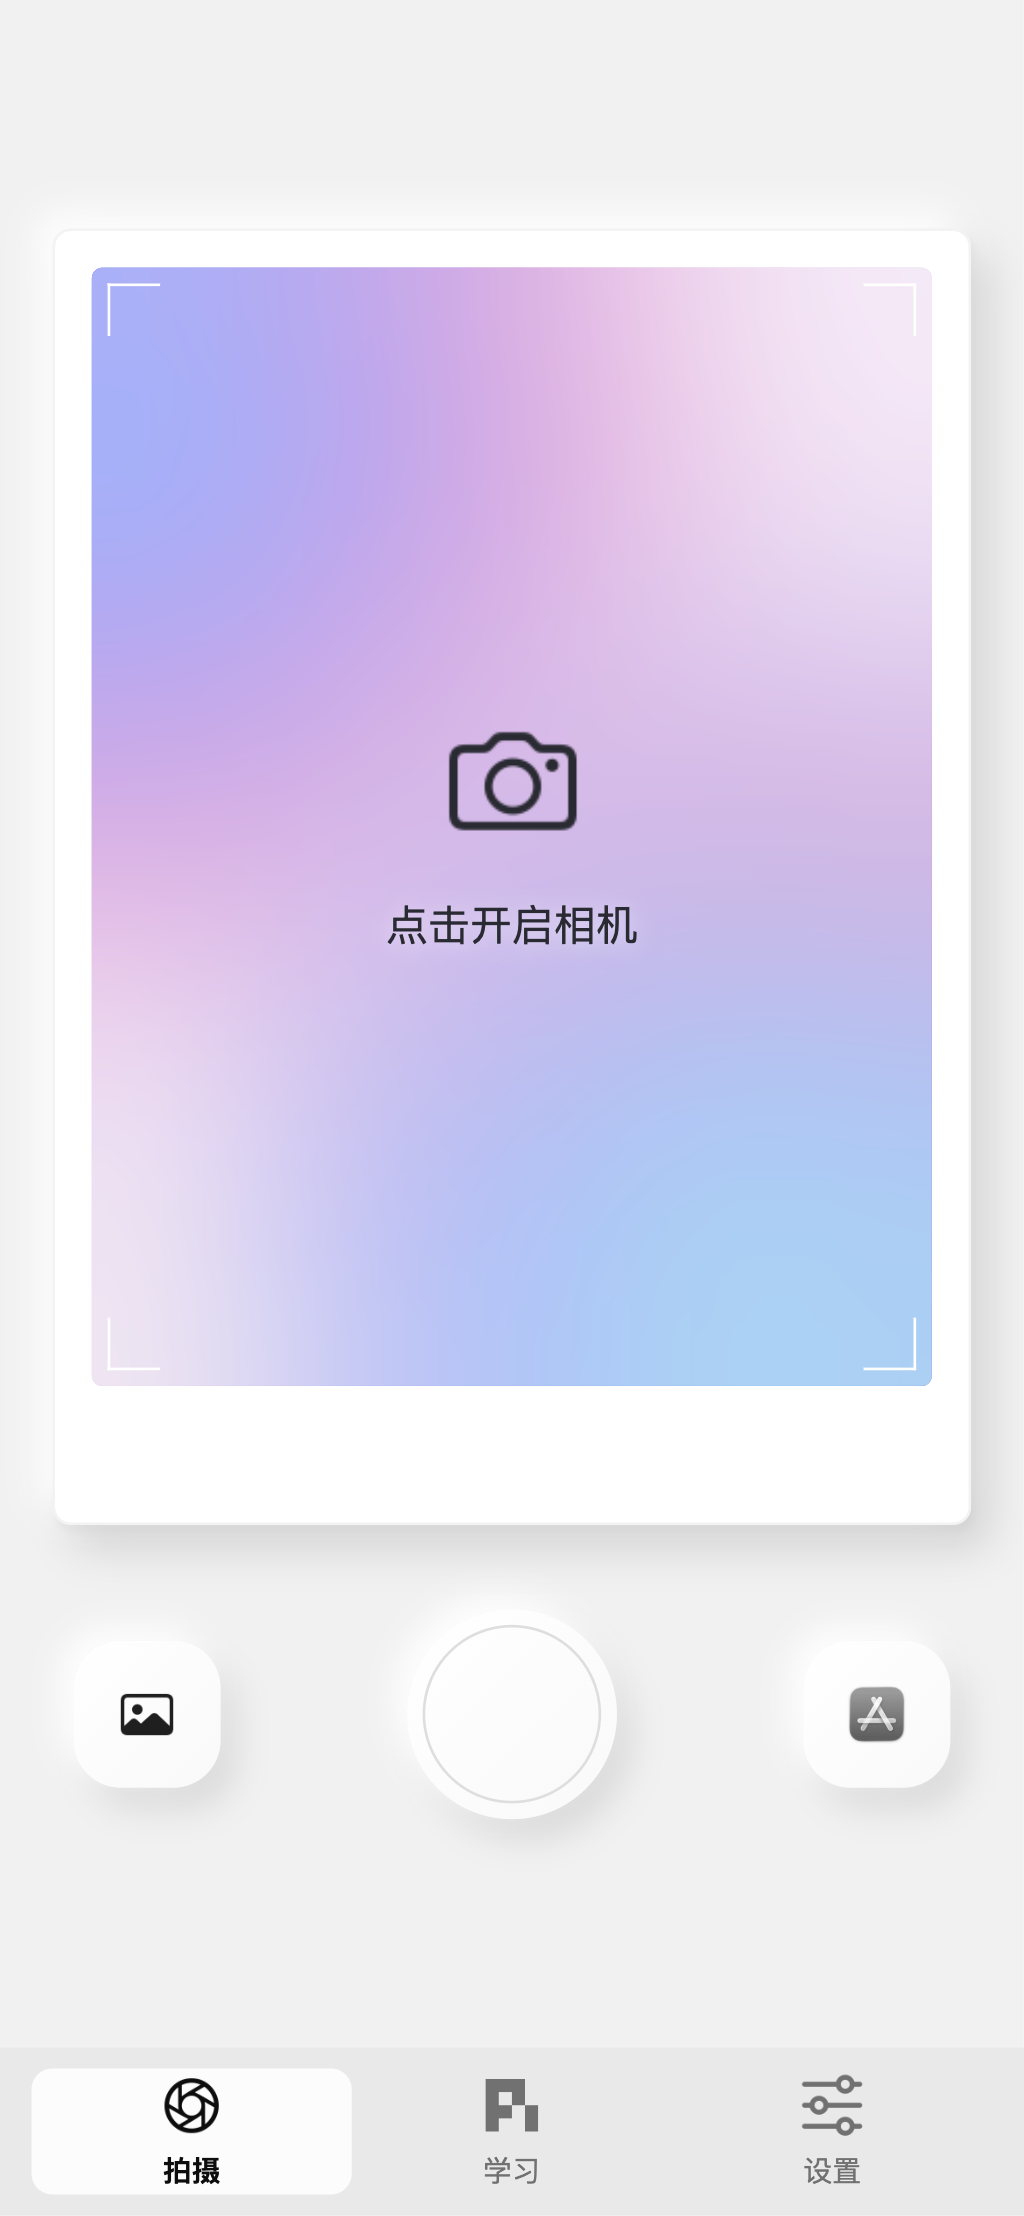
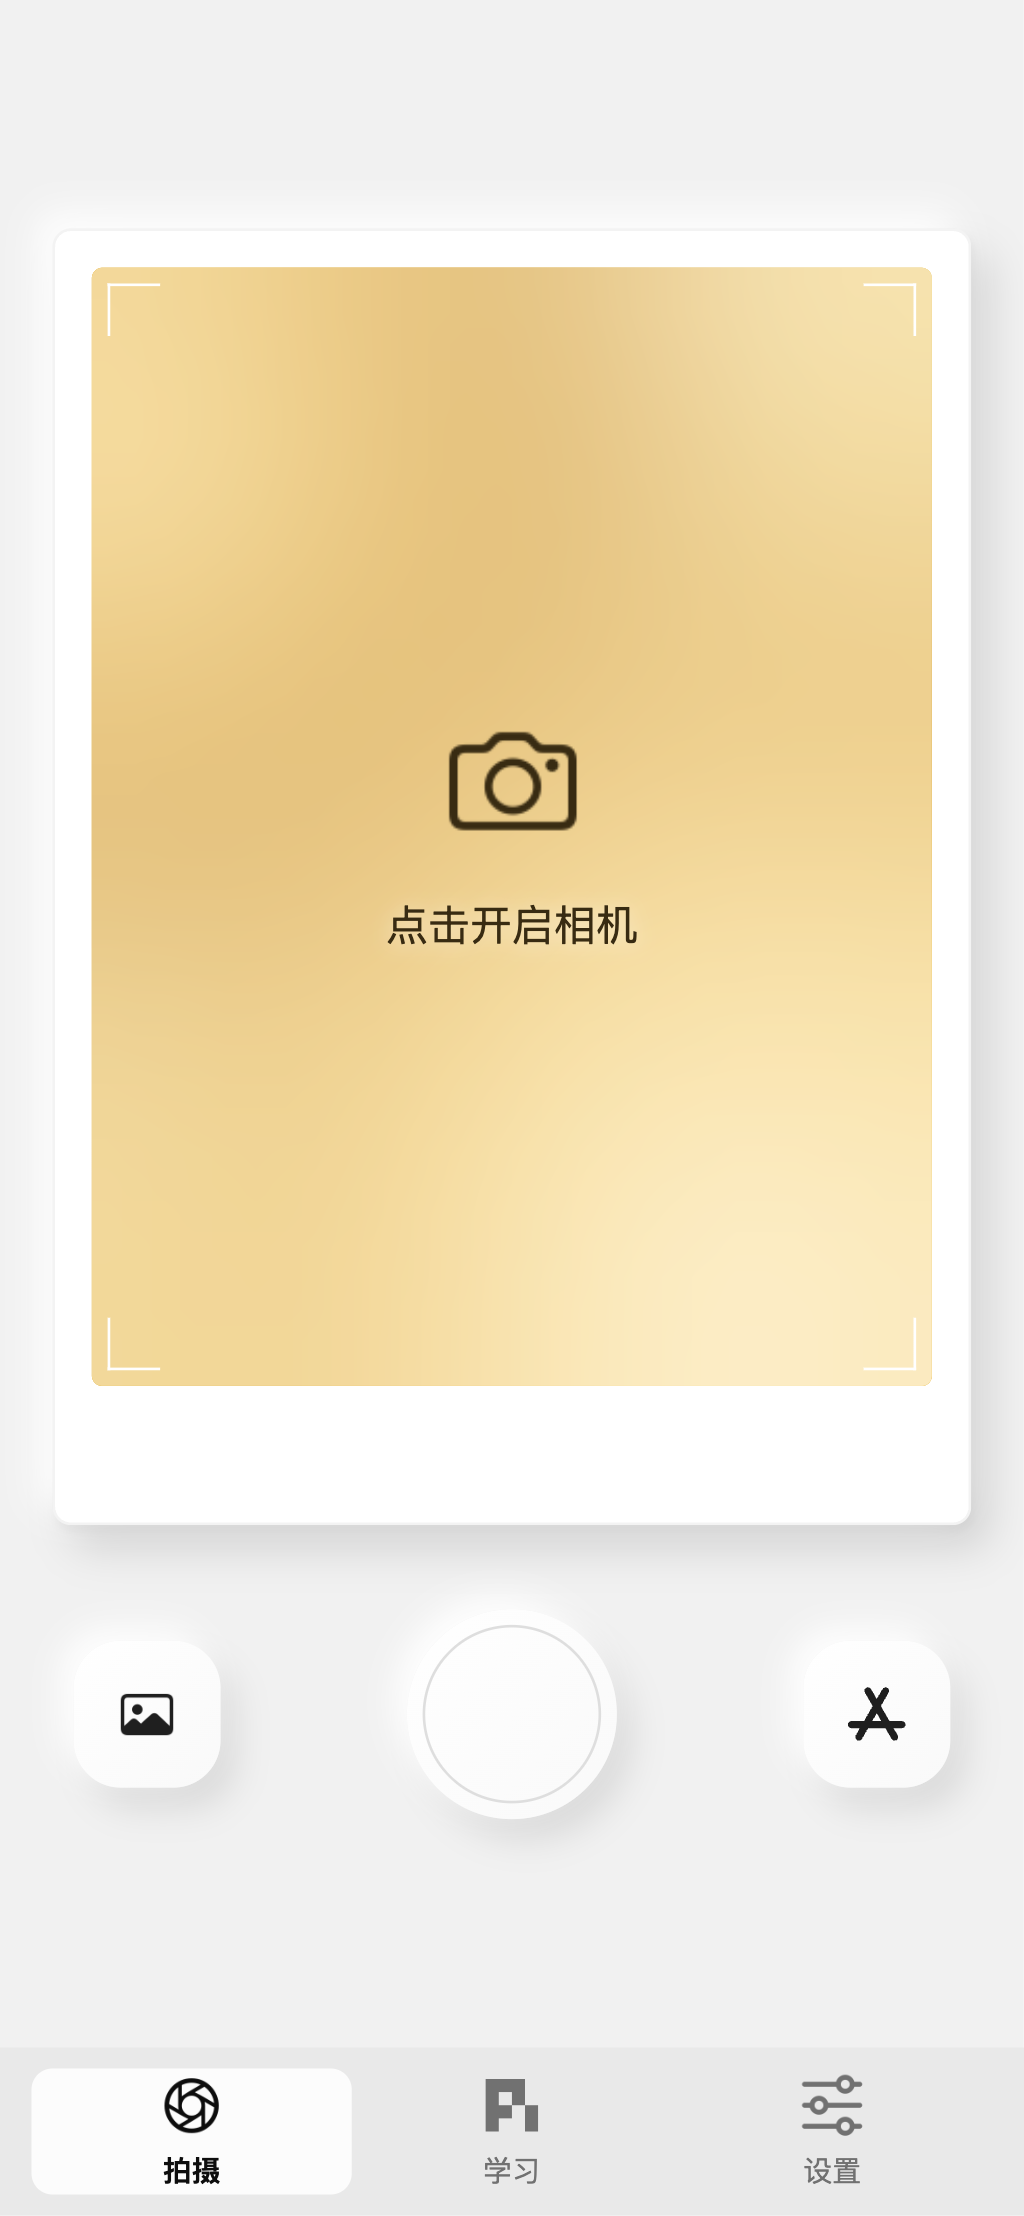
Use warm gold camera background and transparent App Store mark

diff --git a/apps/public/src/capture.css b/apps/public/src/capture.css
@@ -87,17 +87,17 @@ body[data-page=capture]:has(.capture-result-page){background:color-mix(in srgb,v
 .capture-poster-footer .capture-quote p{margin:0}.capture-poster-footer .capture-quote p+p{font-size:2.24cqw;font-weight:500}.capture-poster-footer .capture-quote cite{font-size:1.952cqw;font-weight:500;align-self:stretch}
 .print-paper{background:rgb(251.175 249.9 245.82);border-radius:0;box-shadow:inset 0 0 0 .6px #00000012}
 /* The requested aurora lives only inside the empty photograph aperture. */
-.capture-page .camera-empty{position:relative;isolation:isolate;overflow:hidden;background:#e5e5ed;color:#292a32}
+.capture-page .camera-empty{position:relative;isolation:isolate;overflow:hidden;background:#f3dda1;color:#382b12}
 .camera-empty>.native-icon,.camera-empty>span:not(.camera-aurora){position:relative;z-index:1;text-shadow:0 1px 8px #fff8}
-.camera-aurora{position:absolute;inset:0;overflow:hidden;pointer-events:none;background:linear-gradient(145deg,#e4efff,#f4dff2 45%,#f8e9db);z-index:0}
-.camera-aurora>i{position:absolute;width:115%;height:85%;left:-25%;top:-15%;border-radius:50%;background:radial-gradient(ellipse at 35% 35%,#53a7ff 0%,#8f73f0 28%,#df76bd 53%,transparent 72%);filter:blur(38px);animation:camera-aurora-flow 13s ease-in-out infinite alternate;animation-play-state:paused;will-change:transform}
-.camera-aurora>i:nth-child(2){left:10%;top:25%;background:radial-gradient(ellipse,#ffac82,#eb77b8 36%,#a6a1ef 58%,transparent 75%);animation-duration:17s;animation-delay:-8s}
-.camera-aurora>i:nth-child(3){left:15%;top:45%;background:radial-gradient(ellipse,#83dbe0,#7b9dff 40%,transparent 72%);animation-duration:19s;animation-delay:-5s}
+.camera-aurora{position:absolute;inset:0;overflow:hidden;pointer-events:none;background:linear-gradient(145deg,#fff4cc,#f0cf77 45%,#e7b74b);z-index:0}
+.camera-aurora>i{position:absolute;width:115%;height:85%;left:-25%;top:-15%;border-radius:50%;background:radial-gradient(ellipse at 35% 35%,#ffe7a0 0%,#e6b445 28%,#c98d23 53%,transparent 72%);filter:blur(38px);animation:camera-aurora-flow 13s ease-in-out infinite alternate;animation-play-state:paused;will-change:transform}
+.camera-aurora>i:nth-child(2){left:10%;top:25%;background:radial-gradient(ellipse,#fff0bf,#edc45e 36%,#d69d33 58%,transparent 75%);animation-duration:17s;animation-delay:-8s}
+.camera-aurora>i:nth-child(3){left:15%;top:45%;background:radial-gradient(ellipse,#fff8de,#f6d277 40%,transparent 72%);animation-duration:19s;animation-delay:-5s}
 .camera-aurora>b{position:absolute;inset:0;background:#ffffff55;backdrop-filter:blur(28px);-webkit-backdrop-filter:blur(28px)}
 .camera-empty.is-active .camera-aurora>i{animation-play-state:running}
 @keyframes camera-aurora-flow{0%{transform:translate(-8%,-5%) rotate(-16deg) scale(1)}50%{transform:translate(15%,12%) rotate(12deg) scale(1.18)}100%{transform:translate(-2%,27%) rotate(36deg) scale(1.08)}}
-:root[data-theme=dark] .camera-empty{color:#fff}:root[data-theme=dark] .camera-aurora{background:#20202e}:root[data-theme=dark] .camera-aurora>b{background:#11172570}:root[data-theme=dark] .camera-empty>.native-icon,:root[data-theme=dark] .camera-empty>span:not(.camera-aurora){text-shadow:0 1px 8px #0008}
-.camera-app-store img{display:block;object-fit:contain}
+:root[data-theme=dark] .camera-empty{color:#fff}:root[data-theme=dark] .camera-aurora{background:#241d0c}:root[data-theme=dark] .camera-aurora>b{background:#21190570}:root[data-theme=dark] .camera-empty>.native-icon,:root[data-theme=dark] .camera-empty>span:not(.camera-aurora){text-shadow:0 1px 8px #0008}
+.camera-app-store svg{display:block;width:26px;height:26px}
 @media(prefers-reduced-motion:reduce){.camera-aurora>i{animation:none;will-change:auto}}
 
 .capture-annotation-stage{position:absolute;left:0;top:0;width:1000px;transform-origin:top left;container-type:inline-size;pointer-events:none}

diff --git a/tests/browser/camera-surface.spec.ts b/tests/browser/camera-surface.spec.ts
@@ -1,9 +1,9 @@
 import {test,expect} from '@playwright/test';import path from 'node:path';
 const labels=[{english:'cup',chinese:'杯子',example:'This is a cup.',exampleChinese:'这是一个杯子。',relation:'visible',bbox:[100,150,400,600],anchor:[220,300],backgroundColor:'#C75B39'},{english:'table',chinese:'桌子',example:'This is a table.',exampleChinese:'这是一张桌子。',relation:'visible',bbox:[50,100,900,900],anchor:[240,330],backgroundColor:'#C75B39'},{english:'coffee break',chinese:'咖啡时间',relation:'scene_extension',example:'Take a coffee break.',exampleChinese:'喝杯咖啡休息一下。'}];
-test('empty camera has a clipped animated gaussian aurora and a grayscale App Store link opening a new tab',async({page,browserName},info)=>{
+test('empty camera has a clipped animated gaussian aurora and a transparent App Store mark opening a new tab',async({page,browserName},info)=>{
  await page.goto('/piclex-web/#/capture');await expect(page.getByText('首次使用会请求相机权限',{exact:true})).toHaveCount(0);const aurora=page.locator('.camera-aurora'),blob=aurora.locator('i').first();await expect(aurora).toBeVisible();
  const before=await blob.evaluate(n=>getComputedStyle(n).transform);await page.waitForTimeout(120);expect(await blob.evaluate(n=>getComputedStyle(n).transform)).not.toBe(before);expect(await blob.evaluate(n=>getComputedStyle(n).filter)).toContain('blur(38px)');expect(await aurora.evaluate(n=>getComputedStyle(n).overflow)).toBe('hidden');
- const link=page.getByRole('link',{name:'在 App Store 下载摄影学英语（新标签页）',exact:true});await expect(link).toHaveAttribute('target','_blank');await expect(link).toHaveAttribute('href','https://apps.apple.com/app/id6808490052');expect(await link.locator('img').evaluate(n=>getComputedStyle(n).filter)).toBe('grayscale(1)');
+ const link=page.getByRole('link',{name:'在 App Store 下载摄影学英语（新标签页）',exact:true});await expect(link).toHaveAttribute('target','_blank');await expect(link).toHaveAttribute('href','https://apps.apple.com/app/id6808490052');await expect(link.locator('svg')).toHaveAttribute('fill','none');await expect(link.locator('img')).toHaveCount(0);
  const nav=page.getByRole('navigation',{name:'底部导航'});expect(await nav.evaluate(n=>getComputedStyle(n).borderTopWidth)).toBe('0px');expect(await nav.evaluate(n=>getComputedStyle(n).boxShadow)).toBe('none');await page.screenshot({path:info.outputPath('camera-aurora.png')});
  // macOS WebKit hands apps.apple.com to the native App Store before network routing.
  // Verify the real URL above; use a neutral intercepted host only for WebKit's new-tab semantics.

diff --git a/apps/public/src/AppStoreLink.tsx b/apps/public/src/AppStoreLink.tsx
@@ -1,2 +1,2 @@
 const destination='https://apps.apple.com/app/id6808490052';
-export default function AppStoreLink(){return <a className="camera-accessory camera-app-store" href={destination} target="_blank" rel="noopener noreferrer" aria-label="在 App Store 下载摄影学英语（新标签页）"><img src={`${import.meta.env.BASE_URL}brand/app-store-icon.png`} width="26" height="26" alt="" style={{filter:'grayscale(1)',borderRadius:'22%'}}/></a>;}
+export default function AppStoreLink(){return <a className="camera-accessory camera-app-store" href={destination} target="_blank" rel="noopener noreferrer" aria-label="在 App Store 下载摄影学英语（新标签页）"><svg viewBox="0 0 24 24" width="26" height="26" fill="none" stroke="currentColor" strokeWidth="2.5" strokeLinecap="round" aria-hidden="true"><path d="M8.9 3.8 18.3 20.1M15.1 3.8 5.7 20.1M3.1 15.7H20.9"/></svg></a>;}

diff --git a/docs/native-learning-parity.md b/docs/native-learning-parity.md
@@ -89,8 +89,8 @@
 
 ## 相机表面与生成卡片（2026-11-04）
 
-- 空取景框删除首次授权说明。多层粉、紫、蓝、青色动态渐变叠加38px高斯模糊及28px毛玻璃，裁剪在照片矩形内；切页暂停，减少动态效果时静止。实际授权仍走浏览器权限提示。
-- 右侧附件入口使用系统App Store图标，CSS去色，标准链接target=_blank、noopener noreferrer指向摄影学英语id6808490052。桌面/触摸Chrome验收真实目标URL和新标签；本机WebKit会把apps.apple.com交给系统商店，自动化先核对真实href，再用拦截的中性域名单独验证新标签和opener隔离，不把它记作Safari真实商店页面验收。
+- 空取景框删除首次授权说明。按用户最新纠正使用香槟金、暖金、琥珀金动态渐变叠加38px高斯模糊及28px毛玻璃，裁剪在照片矩形内；切页暂停，减少动态效果时静止。实际授权仍走浏览器权限提示。
+- 右侧附件入口按用户最新纠正仅保留透明的三个圆头棍形A标记，无图标底色/外框，标准链接target=_blank、noopener noreferrer指向摄影学英语id6808490052。桌面/触摸Chrome验收真实目标URL和新标签；本机WebKit会把apps.apple.com交给系统商店，自动化先核对真实href，再用拦截的中性域名单独验证新标签和opener隔离，不把它记作Safari真实商店页面验收。
 - 底部导航去掉上边线及阴影，使用主题背景混色区分区域，浅色/深色均核对无边线。
 - 生成卡片对照CapturePolaroidPaperSurface、ImagePipeline/PosterRenderer及StoredCardImageView：奶油色直角相纸、5%白边、34%照片宽度的页脚，使用App实际BrandLogo和两行品牌字。照片配色页脚、引文位置及中英文字级沿用原生比例。
 - 标签按原生1000px参考尺寸统一排版再整体缩放，避免系统字体在小字号下光学尺寸变化造成截断。复用色相分离、白字玻璃色对比、目标避让/标签排布、白边彩色连接线和目标点；可见物体与场景联想使用相应圆角/直角，保留点击定位。按App一秒平滑曲线从目标展开并淡入，全部完成后再开始进入练习倒计时。保存包保留解析后的固定颜色，避免下次打开重新配色。

diff --git a/memory/2026-11-04.md b/memory/2026-11-04.md
@@ -213,3 +213,10 @@
 
 - 最终CI41808982591构建、145浏览器通过/2平台跳过及Pages发布成功；Pages正式站13项资源哈希与国内版本一致，Chrome/WebKit拍摄裁剪/声音/相机表面8项全部通过，两站新版均已验收。源代码发布提交f8ea20583c92fb4ca25175506d55c9805a617647。
 - 收尾：停止本任务18120预览；清理dist、test-results、逐一确认的前后两轮临时测试目录、补丁压缩包、图标提取/压缩实验，线上incoming上传包已移除。保留docs验证截图/报告、公开内容缓存、正式714文件版本及b030回滚版本；未改手机数据，未启动模拟器。README同步纠正残留的LV3基础按键音误述。自动审批拒绝前缀通配清理后，改用明确路径清单；其余少量/tmp诊断日志留存以便追溯，未做通配删除。
+
+## 相机色彩与商店图标纠正
+
+- 用户明确禁止紫色，空取景框改为香槟金/暖金/琥珀金，保留动态高斯模糊；深色底层也改暖金棕，移除全部蓝紫粉渐变。
+- 商店入口改为透明矢量三个圆头棍形组成的A标记，移除图标自身背景/外框；入口按钮及新标签目标保持。待构建、截图核验与正式发布后追加结果。
+
+- 本次纯样式/标记调整构建通过，现有相机表面6项Chrome桌面/触摸与WebKit检查全部通过；审阅移动截图确认全金色且商店标记透明，移除不再使用的有底色PNG。
